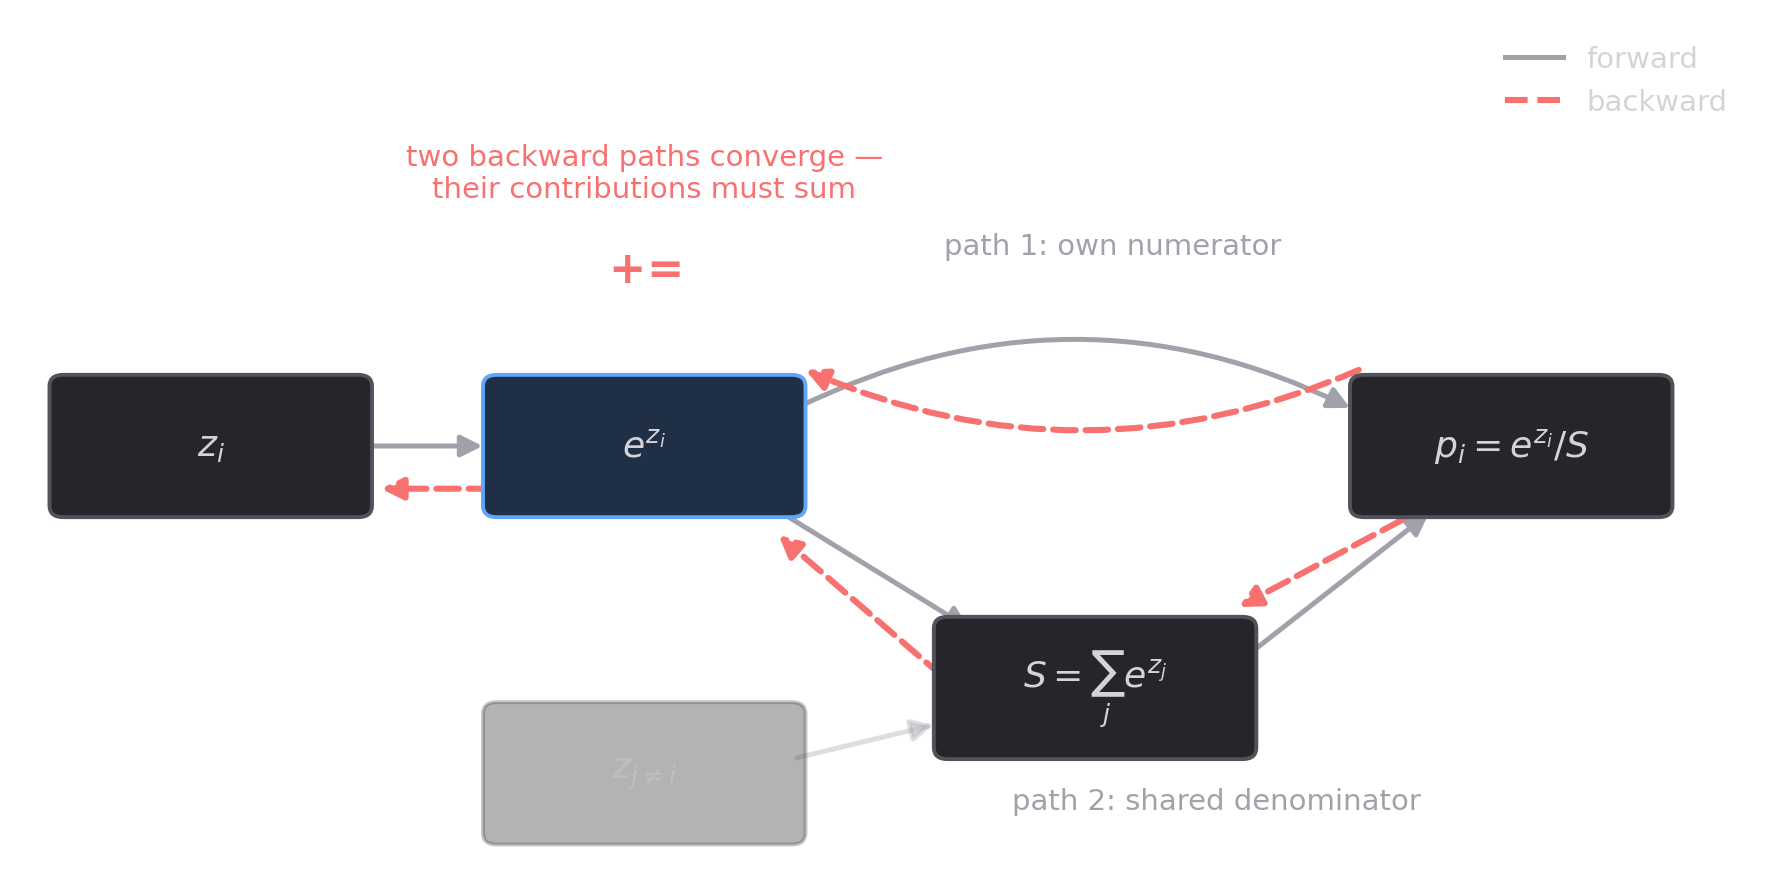
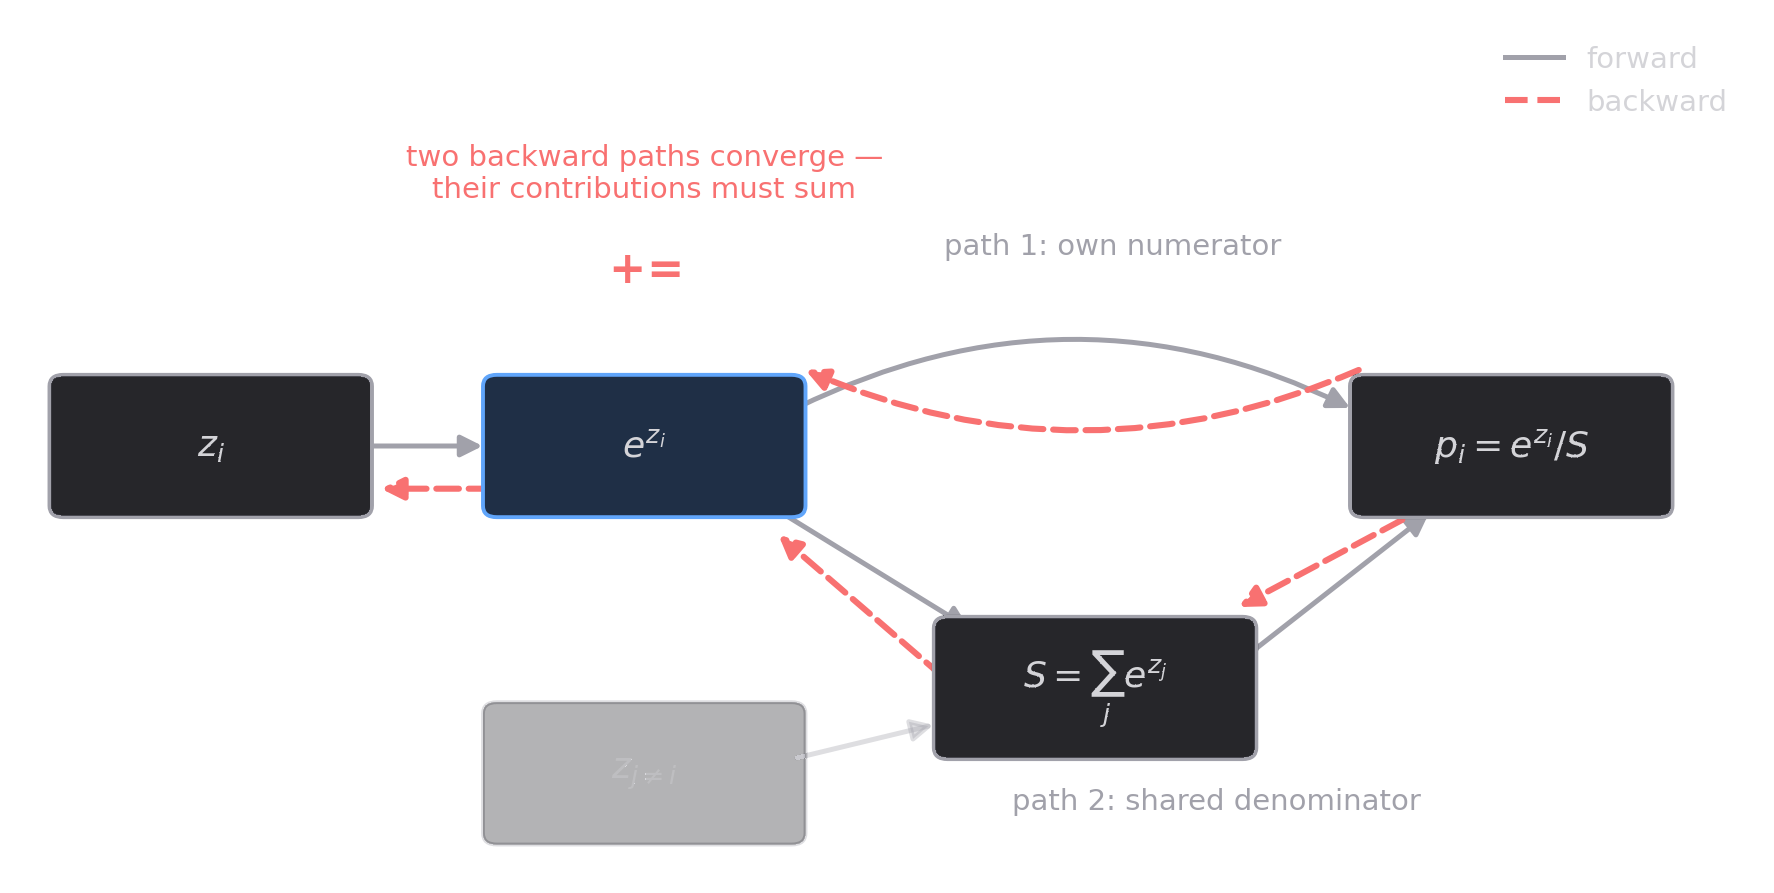
micrograd post: measured linear baseline, mutation-test evidence, limitations section
Replaces the below-chance accuracy claim with a converged NLL comparison. Adds the loss-floor script reference and raises diagram border contrast.

diff --git a/_posts/2026-07-28-micrograd.md b/_posts/2026-07-28-micrograd.md
@@ -9,7 +9,7 @@ image:
   alt: Decision boundary learned by a micrograd MLP on three-class spirals
 ---
 
-I rebuilt micrograd — Karpathy's scalar autograd engine — from scratch: a `Value` class that builds a computation graph through Python operator overloading, then runs reverse-mode automatic differentiation over it. Scalar-valued means every neuron gets decomposed into its individual adds and multiplies — hopeless for performance, ideal for seeing the mechanism, since each node in the graph carries exactly one number and one gradient. On top of the engine sits a small neural net library (`Neuron`, `Layer`, `MLP`), a test suite that checks every gradient against PyTorch, and a demo that trains an MLP on three interleaved spirals — a 2D, three-class problem I generate directly, without sklearn. The implementation follows his Zero to Hero lecture; the packaging, the gradient tests, and the spiral experiment are mine. Code: [github.com/diego-magana/micrograd](https://github.com/diego-magana/micrograd).
+I rebuilt micrograd — Karpathy's scalar autograd engine — from scratch, following his Zero to Hero lecture: a `Value` class that builds a computation graph through Python operator overloading, then runs reverse-mode automatic differentiation over it. Scalar-valued means every neuron gets decomposed into its individual adds and multiplies — hopeless for performance, ideal for seeing the mechanism, since each node in the graph carries exactly one number and one gradient. On top of the engine sits a small neural net library (`Neuron`, `Layer`, `MLP`), a test suite that checks every gradient against PyTorch, and a demo that trains an MLP on three interleaved spirals — a 2D, three-class problem I generate directly, without sklearn. The packaging, the gradient tests, and the spiral experiment are mine. Code: [github.com/diego-magana/micrograd](https://github.com/diego-magana/micrograd).
 
 The reason I did this is that I didn't want backpropagation to be something I trust `loss.backward()` to do. Karpathy's argument for why you shouldn't is that [backprop is a leaky abstraction](https://karpathy.medium.com/yes-you-should-understand-backprop-e2f06eab496b) — stack layers, trust the framework, and the failure modes find you anyway, just later and with worse debugging information. Building the engine is taking that argument literally: I wanted to have written the actual lines where gradients get computed. It turns out there are only six of them — and the most instructive things I hit along the way had nothing to do with the calculus.
 
@@ -37,7 +37,7 @@ def __mul__(self, other):
 
 Each gradient rule is one line of chain rule: local derivative times whatever gradient arrived from above.
 
-The forward pass builds the graph as a byproduct of Python's operator dispatch. The backward pass is nothing but these closures fired in the right order. Everything else on the public surface — subtraction, division, negation, the reflected `__r*__` variants — composes from the primitives: subtraction is addition of a negation, division is multiplication by a power of −1. None of them defines a backward rule, and none needs to. (engine.py carries two more closures than these six: a numerically stable `sigmoid`, which the six can express as $1/(1+e^{-x})$ but which I implemented directly so large negative inputs don't overflow `exp`; and `relu`, which they can't express at all — it needs a comparison, not an arithmetic operation. Neither is on the path of anything in this post.)
+The forward pass builds the graph as a byproduct of Python's operator dispatch. The backward pass is nothing but these closures fired in the right order. Everything else on the public surface — subtraction, division, negation, the reflected `__r*__` variants — composes from the primitives: subtraction is addition of a negation, division is multiplication by a power of −1. None of them defines a backward rule, and none needs to. (Six rules cover everything in this post; the engine registers two more. `sigmoid` is a convenience the six can already express as $1/(1+e^{-x})$, implemented directly so large negative inputs don't overflow `exp`. `relu` is not — it needs a comparison rather than an arithmetic operation, so it genuinely extends what the engine can express. Neither shows up anywhere in this post.)
 
 The part that made this click for me: I built softmax and negative log-likelihood loss purely out of `exp`, `log`, addition, and division over `Value` objects, and the engine produced the textbook gradient
 
@@ -52,7 +52,7 @@ This composition is also the hardest test the engine faces, because the softmax 
 ![Computation graph of softmax showing the diamond: two backward paths converge at the exponentiated logit](/assets/img/micrograd/softmax-diamond.png)
 _The softmax diamond. $e^{z_i}$ has two consumers — its own numerator and the shared denominator — so two backward paths (red) converge on it and their contributions must sum. This one structure exercises every primitive in the engine plus the accumulation rule._
 
-That's the real economy of the design: derived operations don't need derived gradients. Six local rules plus the chain rule differentiate everything the engine can express — including compositions the engine has never heard of.
+That's the real economy of the design: derived operations don't need derived gradients. Six local rules plus the chain rule differentiate any composition built from them — including compositions the engine has never heard of.
 
 ## The bugs that matter don't crash
 
@@ -60,9 +60,13 @@ The unpleasant thing about writing an autograd engine is that **its worst bugs a
 
 Two of these are structural. The backward closures have to accumulate with `+=`, never assign with `=`: `y = x * x` reuses `x`, and $dy/dx = 2x$ only because two contributions sum at the node. Assign instead and the second path silently overwrites the first — at $x = 3$ you get a gradient of 3 instead of 6. Wrong exactly when a value is reused, which in a real network is everywhere. And `backward()` has to walk the graph in reverse topological order: each closure distributes `out.grad` to its operands, so `out.grad` must already hold every downstream contribution before the closure fires. This is the same dependency problem a compiler solves when it schedules expression evaluation. Skip the sort and some nodes propagate partial gradients. No error — just wrong.
 
-The third is easy to miss because it hides in an ordinary line of Python: `sum(w_i * x_i for ...)` in the neuron's forward pass. `sum()` starts from the integer `0`, so the first operation is `0 + Value` — `int.__add__` fails, and Python falls back to `Value.__radd__`. Without the reflected operators, the engine works in every expression I write by hand and breaks the first time a standard-library idiom touches it. I stopped thinking of `__radd__` and friends as polish; they're what makes the type behave like a number.
+The third is easy to miss because it hides in an ordinary line of Python — and in this engine it hides inside the softmax itself. Building the denominator is `sum(counts)`, and `sum()` starts from the integer `0`, so the first operation is `0 + Value` — `int.__add__` fails, and Python falls back to `Value.__radd__`. Without the reflected operators, the engine works in every expression I write by hand and breaks the first time a standard-library idiom touches it. I stopped thinking of `__radd__` and friends as polish; they're what makes the type behave like a number.
 
-Since none of this announces itself, the tests are the correctness argument, not hygiene. I verified every operator — and the full softmax+NLL composition, diamond included — against PyTorch's autograd to 1e-5. Two independent implementations agreeing that tightly means the graph construction and the chain-rule application are both right. One detail: I cast the PyTorch reference tensors to `float64`, because the default `float32` floors the comparison around 1e-7 and fails tests against Python floats for no real reason.
+Since none of this announces itself, the tests are the correctness argument, not hygiene. I verified every operator — and the full softmax+NLL composition, diamond included — against PyTorch's autograd. The assertion is 1e-5 absolute, which on the tangled test case works out much tighter than it sounds: the gradients there reach $10^5$, so that's agreement to eleven significant figures. Two independent implementations matching that closely means the graph construction and the chain-rule application are both right. One detail: I cast the PyTorch reference tensors to `float64`, because the default `float32` floors the comparison around 1e-7 and fails tests against Python floats for no real reason.
+
+The claim that these bugs are silent is itself testable, so the suite tests it. `test_accumulation_is_not_assignment` swaps the `+=` for `=`, trains a small MLP on thirty points, and asserts the loss still falls — 46.3 down to under 12, on a network where every gradient is wrong.
+
+It's worse than silent. Run the broken version twice and you get different answers — 8.77, 9.55, 11.42 from identical seeds — because `backward()` orders the graph by iterating a `set` of nodes hashed by identity, so traversal order shifts with memory layout between runs. With `+=` that's invisible: every path contributes and addition commutes. With `=` the last writer wins, and which node writes last is an accident. Which means the second bug here isn't independent of the first — accumulation is what makes the traversal order stop mattering.
 
 ## A loss floor I should have predicted
 
@@ -78,17 +82,31 @@ $$
 
 The best possible per-sample BCE is $-\ln(0.731) \approx 0.313$, so over 100 samples the minimum achievable loss is about **31.33**. The network sits at 31.84 — within ~1.6% of a floor its own architecture imposes. It classifies everything correctly and is structurally forbidden from being confident about any of it.
 
+`scripts/loss_floor.py` in the repo rebuilds that network so this is checkable rather than remembered. It has to stack the layers by hand, because `MLP` won't produce a tanh head any more — that's the fix, below. A fresh run lands at 32.20 against the same 31.33: the floor reproduces, the exact historical number doesn't.
+
 ![Two-panel figure: sigmoid capped at 0.731 by the tanh-bounded input, and the resulting per-sample BCE floor at 0.313](/assets/img/micrograd/loss-floor.png)
 _The whole "bug" in two panels. Left: the tanh output confines the pre-sigmoid value to the shaded band, capping confidence at $\sigma(1) \approx 0.731$. Right: that cap floors the per-sample loss at 0.313 — times 100 samples, the 31.3 that explains the 31.84 on my screen._
 
 What I didn't expect is that the same property of tanh shows up at both ends of the network with opposite consequences. At the input, saturation is a gradient problem — large inputs push activations toward ±1, where $1 - \tanh^2 x \to 0$ and learning stalls, which is why I normalize the features to zero mean and unit variance before training. At the output, saturation is a confidence problem — the same boundedness that makes tanh a well-behaved hidden activation makes it the wrong thing to put in front of a sigmoid. One function, two failure surfaces, and only one of them shows up in the gradients.
+
+Except they aren't two events. Invert the number: a summed loss of 31.84 over 100 samples is a mean BCE of 0.3184, so the mean predicted probability is $e^{-0.3184} = 0.727$, which puts the tanh output at 0.981 — and there the local gradient $1 - \tanh^2$ is 0.0376. The output neuron was pinned against its ceiling *and* passing back four percent of the gradient it received. The confidence cap and the vanishing gradient are the same saturation, read from two ends.
 
 ![tanh and its derivative, showing the saturation zones where the gradient vanishes and the bounded output range that caps confidence](/assets/img/micrograd/tanh-two-failures.png)
 _tanh's two failure surfaces. In the shaded zones the local gradient (gold) vanishes and learning stalls — the input-side problem. The output range never leaves $(-1, 1)$ — the output-side problem that produced the loss floor._
 
 The habit I'm keeping from this: I could have computed the floor *before training*, from the architecture alone. When a loss curve plateaus, the first question isn't which learning-rate schedule to try — it's what the minimum achievable loss actually is under the model's output parameterization. Sometimes the plateau is the answer.
 
-The fix is the one every framework quietly uses: a linear output layer that emits unbounded logits and leaves the squashing to the loss function. The current demo in the repo applies it directly — `MLP(2, [16, 16, 3])`, 371 parameters, softmax+NLL on three-class spirals with a linear output head and a real train/test split (train 0.99 / test 0.87). The floor is gone because the architecture no longer imposes it, and the spiral benchmark is harder — measurably. A 9-parameter linear softmax lands at 0.27 on the held-out split, below even the ~0.33 guess rate for three classes: no linear boundary wraps a spiral, so the model collapses toward over-predicting one class rather than separating the arms. The MLP reaches 0.87. The hidden-layer nonlinearity is the entire difference between guessing and generalizing.
+The fix is the one every framework quietly uses: a linear output layer that emits unbounded logits and leaves the squashing to the loss function. The current demo in the repo applies it directly — `MLP(2, [16, 16, 3])`, 371 parameters, softmax+NLL on three-class spirals with a linear output head and a real train/test split (train 0.99 / test 0.87).
+
+The spirals are a harder problem than the moons, and I wanted that measured rather than asserted, so I ran a linear baseline: the same softmax head with no hidden layers, nine parameters. It converges to a held-out NLL of 1.14 on this split, against the $\ln 3 \approx 1.10$ of guessing uniformly. It isn't undertrained — the training loss stops moving at step 80 and hasn't moved by step 3,000, settling at finite weights instead of running them off toward infinity the way a linear model does when the classes really are separable. It fits the training set a little (1.00) and none of that transfers.
+
+Accuracy says the same thing less stably: 0.27 on 30 test points, with predictions falling [14, 8, 8] against true counts of 7/11/12 — it collapses onto one class rather than separating the arms. That's what a linear boundary does when the classes wrap around each other. It can't draw the curve, so it picks a half-plane and eats the loss. The MLP reaches 0.87 on that same split, and the hidden layers are the entire difference.
+
+## Where this stops
+
+The scalar design is a deliberate ceiling, not an oversight. One `Value` per number and a Python loop per forward pass make this $O(\text{samples} \times \text{params})$ with no vectorization — fine for a hundred 2D points, hopeless for anything real. The point was never speed. It was that you can read every gradient.
+
+Two other boundaries worth naming. The test-below-train gap is small-data reality — a few dozen points per class with genuine overlap near the origin — rather than a bug I haven't found. And the softmax here is the plain form: at larger logit magnitudes it needs the log-sum-exp trick to stay numerically stable, which is the first thing makemore has to fix.
 
 ## What's next
 
